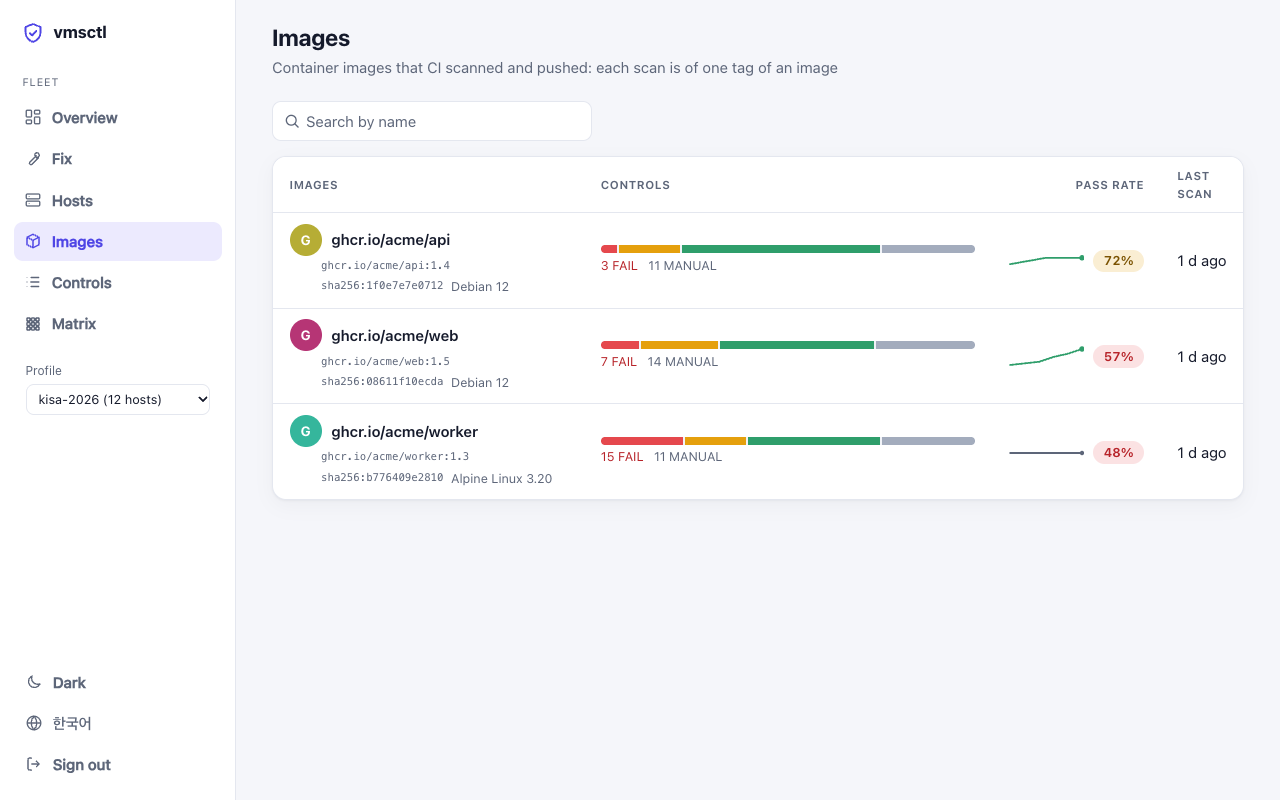
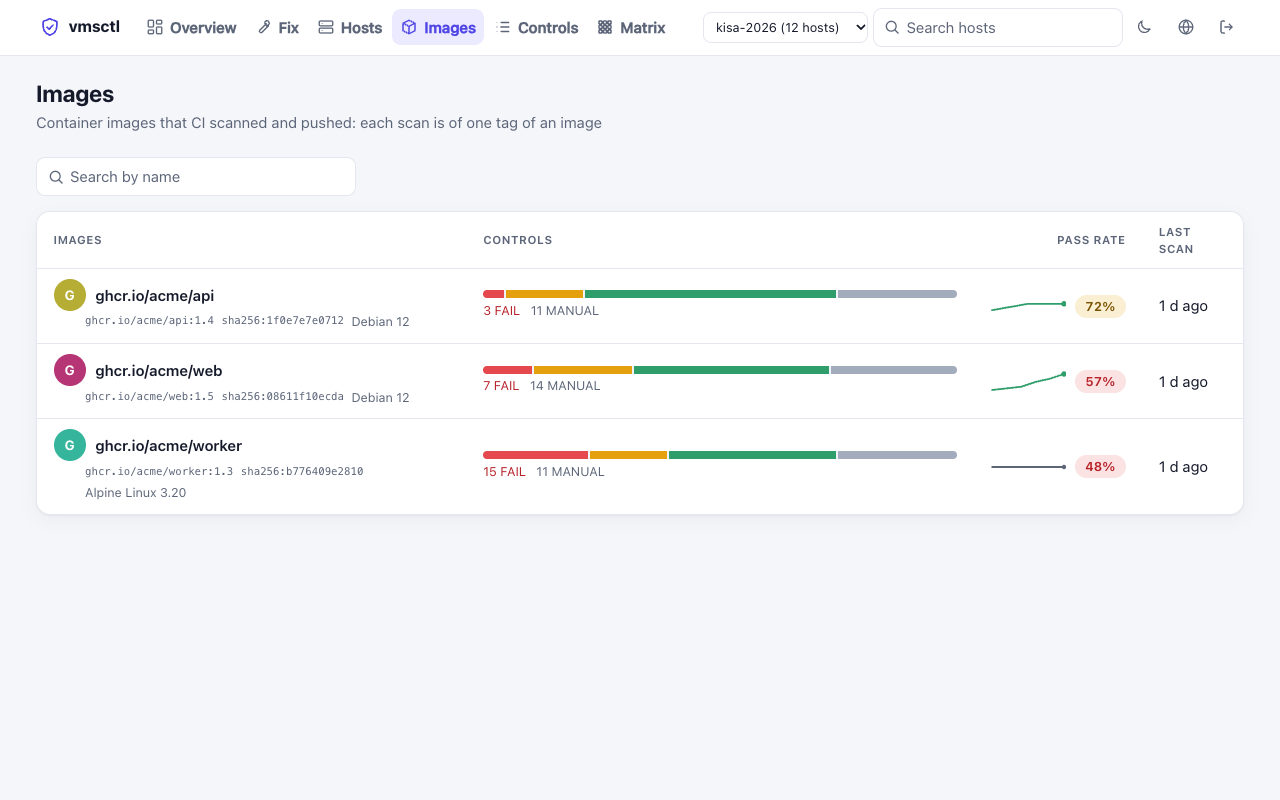
feat: dashboard: a top bar with the pages, the profile, a host search and the settings, instead of the sidebar

diff --git a/web/src/styles.css b/web/src/styles.css
@@ -58,19 +58,25 @@ ul, ol { margin: 0; }
 .icon { flex: none; }
 
 /* Layout */
-.app { display: grid; grid-template-columns: 236px minmax(0, 1fr); min-height: 100vh; }
-.sidebar { position: sticky; top: 0; height: 100vh; display: flex; flex-direction: column; gap: 1.25rem; padding: 1.1rem .9rem; background: var(--surface); border-right: 1px solid var(--border); }
-.brand { display: flex; align-items: center; gap: .55rem; font-weight: 750; font-size: 1.1rem; color: var(--text); padding: .25rem .5rem; letter-spacing: -0.01em; }
+.app { min-height: 100vh; }
+html { scroll-padding-top: 4.5rem; } /* what is brought into view stays clear of the sticky top bar */
+/* The top bar: the brand, the pages, and on the right the profile, a host search and the settings */
+.topbar { position: sticky; top: 0; z-index: 20; background: var(--surface); border-bottom: 1px solid var(--border); }
+.topbar-in { max-width: 1312px; margin: 0 auto; display: flex; align-items: center; gap: 1rem; padding: .5rem clamp(16px, 3vw, 36px); }
+.brand { display: flex; align-items: center; gap: .5rem; font-weight: 750; font-size: 1.05rem; color: var(--text); padding: .25rem .2rem; letter-spacing: -0.01em; flex: none; }
 .brand .icon { color: var(--accent); }
 .brand:hover { text-decoration: none; }
-.sidebar nav { display: grid; gap: .15rem; }
-.nav-section { font-size: .72rem; text-transform: uppercase; letter-spacing: .08em; color: var(--muted); padding: .4rem .6rem; }
-.sidebar nav a { display: flex; align-items: center; gap: .65rem; padding: .55rem .7rem; border-radius: var(--radius-sm); color: var(--muted); font-weight: 520; }
-.sidebar nav a:hover { background: var(--surface-2); color: var(--text); text-decoration: none; }
-.sidebar nav a[aria-current="page"] { background: var(--accent-soft); color: var(--accent); }
-.sidebar-foot { margin-top: auto; display: grid; gap: .1rem; }
-.sidebar-foot button { display: flex; align-items: center; gap: .65rem; text-align: left; width: 100%; }
-main { padding: 1.6rem clamp(16px, 3vw, 36px) 3rem; max-width: 1240px; width: 100%; min-width: 0; }
+.topnav { display: flex; gap: .1rem; min-width: 0; overflow-x: auto; scrollbar-width: none; } /* too narrow: it scrolls, nothing covers it */
+.topnav a { display: flex; align-items: center; gap: .4rem; padding: .45rem .55rem; border-radius: var(--radius-sm); color: var(--muted); font-weight: 560; white-space: nowrap; }
+.topnav a:hover { background: var(--surface-2); color: var(--text); text-decoration: none; }
+.topnav a[aria-current="page"] { background: var(--accent-soft); color: var(--accent); }
+.topbar-tools { margin-left: auto; display: flex; align-items: center; gap: .3rem; flex: none; }
+.topbar-tools .icon-only { padding: .45rem; }
+.topbar-tools .lang-switch { display: flex; align-items: center; gap: .35rem; white-space: nowrap; }
+.topsearch { width: 10rem; }
+@media (max-width: 1400px) { .topbar-tools .lang-switch span { display: none; } }
+@media (max-width: 1180px) { .topbar-tools .topsearch { display: none; } }
+main { padding: 1.6rem clamp(16px, 3vw, 36px) 3rem; max-width: 1312px; width: 100%; min-width: 0; margin: 0 auto; }
 .pagehead { display: flex; justify-content: space-between; align-items: flex-end; gap: 1rem; margin-bottom: 1.25rem; flex-wrap: wrap; }
 .pagehead p { margin-top: .25rem; }
 .crumb { margin-bottom: .75rem; }
@@ -262,17 +268,16 @@ table.matrix .cell:hover { outline: 2px solid var(--text); outline-offset: 0; }
 }
 @media (max-width: 760px) {
   /* a short page must not hand its spare height to the top bar: the rows keep their size and the page ends where it ends */
-  .app { grid-template-columns: minmax(0, 1fr); grid-template-rows: auto 1fr; }
   .hero, .hosthead { min-width: 0; }
   .gauge svg { max-width: 180px; }
   .legend { justify-content: flex-start; }
-  .sidebar { position: static; height: auto; flex-direction: row; flex-wrap: wrap; align-items: center; padding: .6rem .9rem; gap: .5rem; }
-  /* four equal tabs that always fit: icon over label, like a tab bar */
-  .sidebar nav { display: grid; grid-auto-flow: column; grid-auto-columns: 1fr; order: 3; width: 100%; gap: .25rem; }
-  .sidebar nav a { flex-direction: column; gap: .15rem; padding: .45rem .2rem; font-size: .76rem; text-align: center; }
-  .nav-section { display: none; }
-  .sidebar-foot { margin: 0 0 0 auto; display: flex; }
-  .sidebar-foot button span { display: none; }
+  /* two rows: the brand and the settings, then the pages as a tab bar (icon over label, equal widths) */
+  .topbar { position: static; }
+  html { scroll-padding-top: 0; }
+  .topbar-in { flex-wrap: wrap; gap: .5rem; padding: .5rem 16px; }
+  .topnav { order: 3; width: 100%; display: grid; grid-auto-flow: column; grid-auto-columns: 1fr; gap: .2rem; }
+  .topnav a { flex-direction: column; gap: .15rem; padding: .4rem .15rem; font-size: .74rem; justify-content: center; }
+  .topbar-tools .profile-select select { max-width: 7.5rem; }
   .login { grid-template-columns: 1fr; }
   .login-art { display: none; }
   .control-row { grid-template-columns: 16px 3rem 1fr 6.2rem; }
@@ -291,9 +296,8 @@ table.matrix .cell:hover { outline: 2px solid var(--text); outline-offset: 0; }
 }
 @media (prefers-reduced-motion: reduce) { * { animation: none !important; transition: none !important; } }
 
-.profile-select { display: grid; gap: 4px; padding: 0 12px 12px; }
-.profile-select label { font-size: 12px; color: var(--muted); }
-.profile-select select { width: 100%; padding: 6px 8px; border: 1px solid var(--border); border-radius: 8px; background: var(--surface); color: inherit; font: inherit; font-size: .85rem; text-overflow: ellipsis; }
+.profile-select { display: flex; }
+.profile-select select { max-width: 11rem; padding: 6px 8px; border: 1px solid var(--border); border-radius: 8px; background: var(--surface); color: inherit; font: inherit; font-size: .85rem; text-overflow: ellipsis; }
 
 .scannow { display: grid; gap: .35rem; }
 .scannow-main { display: flex; flex-wrap: wrap; align-items: center; gap: .75rem; }
@@ -411,7 +415,7 @@ html[lang="ko"] .evidence, html[lang="ko"] code, html[lang="ko"] .mono { word-br
 .standard .pill { justify-self: start; }
 /* The remediation page: the queue on the left, the chosen control on the right */
 .workbench { display: grid; grid-template-columns: minmax(260px, 340px) minmax(0, 1fr); gap: 1rem; align-items: start; }
-.queue { position: sticky; top: 1rem; max-height: calc(100vh - 2rem); display: flex; flex-direction: column; }
+.queue { position: sticky; top: 4.5rem; max-height: calc(100vh - 5.5rem); display: flex; flex-direction: column; }
 .queue-filters { display: grid; gap: .5rem; padding: .8rem; border-bottom: 1px solid var(--border); }
 .workbench-main .fixhosts-head { margin: 0; padding: .9rem 1.1rem .5rem; font-size: .95rem; }
 .queue-filters .search { width: 100%; }

diff --git a/web/src/App.tsx b/web/src/App.tsx
@@ -3,7 +3,7 @@ import { api, setUnauthorizedHandler } from "./lib/api";
 import { useAsync, useHash } from "./lib/hooks";
 import { ProfileProvider, useProfile } from "./lib/profile";
 import { useI18n } from "./lib/i18n";
-import { parseRoute } from "./lib/format";
+import { hostsAddress, parseHostsView, parseRoute } from "./lib/format";
 import { Login } from "./pages/Login";
 import { OverviewPage } from "./pages/Overview";
 import { HostsPage } from "./pages/Hosts";
@@ -12,7 +12,7 @@ import { MatrixPage } from "./pages/Matrix";
 import { ImagesPage } from "./pages/Images";
 import { ControlPage, ControlsPage } from "./pages/Controls";
 import { FixPage } from "./pages/Fix";
-import { IconBox, IconGlobe, IconGrid, IconList, IconLogout, IconMoon, IconOverview, IconServer, IconShield, IconSun, IconWrench } from "./components/icons";
+import { IconBox, IconGlobe, IconGrid, IconList, IconLogout, IconMoon, IconOverview, IconSearch, IconServer, IconShield, IconSun, IconWrench } from "./components/icons";
 
 type Auth = "checking" | "in" | "out" | "failed";
 
@@ -102,7 +102,7 @@ export function App() {
   );
 }
 
-/** The sidebar and the page, once the person is signed in and the profiles are known. */
+/** The top bar and the page, once the person is signed in and the profiles are known. */
 function Shell({ hash, dark, toggleTheme, logout }: { hash: string; dark: boolean; toggleTheme: () => void; logout: () => void }) {
   const { t, toggle } = useI18n();
   const { list, selected, select } = useProfile();
@@ -133,49 +133,62 @@ function Shell({ hash, dark, toggleTheme, logout }: { hash: string; dark: boolea
 
   return (
     <div className="app">
-      <aside className="sidebar">
-        <a className="brand" href="#/">
-          <IconShield size={24} />
-          <span>{t("app.name")}</span>
-        </a>
-        <nav aria-label={t("nav.section")}>
-          <span className="nav-section">{t("nav.section")}</span>
-          {nav.map(([key, href, label, icon]) => (
-            <a key={key} href={href} aria-current={current === key ? "page" : undefined}>
-              {icon}
-              <span>{label}</span>
-            </a>
-          ))}
-        </nav>
-        {list && list.profiles.length > 1 && (
-          <div className="profile-select">
-            <label htmlFor="profile">{t("profile.label")}</label>
-            <select id="profile" value={selected} onChange={(e) => select(e.target.value)}>
-              {list.profiles.map((p) => (
-                <option key={p.id} value={p.id}>
-                  {p.id} ({t("profile.hosts", { n: p.fleet?.hosts ?? p.hosts })})
-                </option>
-              ))}
-            </select>
-          </div>
-        )}
-        <div className="sidebar-foot">
-          <button className="ghost" onClick={toggleTheme} aria-label={dark ? t("theme.light") : t("theme.dark")} title={dark ? t("theme.light") : t("theme.dark")}>
-            {dark ? <IconSun /> : <IconMoon />}
-            <span>{dark ? t("theme.light") : t("theme.dark")}</span>
-          </button>
-          <button className="ghost" onClick={toggle} aria-label={t("lang.switch")} title={t("lang.switch")}>
-            <IconGlobe />
-            <span>{t("lang.switch")}</span>
-          </button>
-          {!DEMO && (
-            <button className="ghost" onClick={logout} aria-label={t("nav.logout")} title={t("nav.logout")}>
-              <IconLogout />
-              <span>{t("nav.logout")}</span>
+      <header className="topbar">
+        <div className="topbar-in">
+          <a className="brand" href="#/">
+            <IconShield size={22} />
+            <span>{t("app.name")}</span>
+          </a>
+          <nav className="topnav" aria-label={t("nav.section")}>
+            {nav.map(([key, href, label, icon]) => (
+              <a key={key} href={href} aria-current={current === key ? "page" : undefined}>
+                {icon}
+                <span>{label}</span>
+              </a>
+            ))}
+          </nav>
+          <div className="topbar-tools">
+            {list && list.profiles.length > 1 && (
+              <div className="profile-select">
+                <label htmlFor="profile" className="sr-only">
+                  {t("profile.label")}
+                </label>
+                <select id="profile" value={selected} onChange={(e) => select(e.target.value)} title={t("profile.label")}>
+                  {list.profiles.map((p) => (
+                    <option key={p.id} value={p.id}>
+                      {p.id} ({t("profile.hosts", { n: p.fleet?.hosts ?? p.hosts })})
+                    </option>
+                  ))}
+                </select>
+              </div>
+            )}
+            <form
+              className="topsearch search"
+              role="search"
+              onSubmit={(e) => {
+                e.preventDefault();
+                const q = String(new FormData(e.currentTarget).get("q") ?? "").trim();
+                location.hash = hostsAddress({ ...parseHostsView(""), q });
+              }}
+            >
+              <IconSearch />
+              <input type="search" name="q" placeholder={t("top.search")} aria-label={t("top.search")} />
+            </form>
+            <button className="ghost icon-only" onClick={toggleTheme} aria-label={dark ? t("theme.light") : t("theme.dark")} title={dark ? t("theme.light") : t("theme.dark")}>
+              {dark ? <IconSun /> : <IconMoon />}
             </button>
-          )}
+            <button className="ghost lang-switch" onClick={toggle} aria-label={t("lang.switch")} title={t("lang.switch")}>
+              <IconGlobe />
+              <span>{t("lang.switch")}</span>
+            </button>
+            {!DEMO && (
+              <button className="ghost icon-only" onClick={logout} aria-label={t("nav.logout")} title={t("nav.logout")}>
+                <IconLogout />
+              </button>
+            )}
+          </div>
         </div>
-      </aside>
+      </header>
       <main key={selected}>
         {DEMO && (
           <p className="demo-banner" role="note">

diff --git a/web/src/lib/i18n.tsx b/web/src/lib/i18n.tsx
@@ -6,6 +6,7 @@ const en = {
   "app.name": "vmsctl",
   "nav.overview": "Overview",
   "nav.fix": "Fix",
+  "top.search": "Search hosts",
   "fix.title": "Fix",
   "fix.subtitle": "The failing controls in the order to fix them, with how to fix each and the hosts to fix it on.",
   "fix.queue": "Controls to fix",
@@ -180,7 +181,7 @@ const en = {
   "profile.hosts": "{n} hosts",
   "profile.other": "{n} hosts scanned with another profile are not counted here. Pick that profile to see them.",
   "profile.otherHost": "another profile",
-  "profile.hostOther": "The latest scan of this host is of {profiles}. Choose that profile in the sidebar to see its controls.",
+  "profile.hostOther": "The latest scan of this host is of {profiles}. Choose that profile at the top of the page to see its controls.",
   "hosts.sortBy": "Sort",
   "hosts.more": "Show more",
   "hosts.showing": "Showing {n} of {total}",
@@ -222,6 +223,7 @@ const ko: Record<Key, string> = {
   "app.name": "vmsctl",
   "nav.overview": "개요",
   "nav.fix": "조치",
+  "top.search": "호스트 검색",
   "fix.title": "조치",
   "fix.subtitle": "실패한 점검 항목을 고칠 순서대로 놓고, 항목마다 고치는 방법과 고칠 호스트를 함께 보여 줍니다.",
   "fix.queue": "고칠 점검 항목",
@@ -396,7 +398,7 @@ const ko: Record<Key, string> = {
   "profile.hosts": "호스트 {n}대",
   "profile.other": "다른 프로파일로 스캔한 호스트 {n}대는 여기에 집계하지 않습니다. 그 프로파일을 고르면 볼 수 있습니다.",
   "profile.otherHost": "다른 프로파일",
-  "profile.hostOther": "이 호스트의 최신 스캔은 {profiles} 프로파일 기준입니다. 사이드바에서 해당 프로파일을 고르면 점검 항목을 볼 수 있습니다.",
+  "profile.hostOther": "이 호스트의 최신 스캔은 {profiles} 프로파일 기준입니다. 화면 위쪽에서 해당 프로파일을 고르면 점검 항목을 볼 수 있습니다.",
   "hosts.sortBy": "정렬",
   "hosts.more": "더 보기",
   "hosts.showing": "{total}대 중 {n}대 표시",

diff --git a/docs/fleet.md b/docs/fleet.md
@@ -251,7 +251,7 @@ your proxy: check it against its documentation. Things to know:
 Hosts may scan with different profiles (`--profile`, `essentials`, a policy pack), so every number of the dashboard is of
 **one profile**: the overview, the host list, the matrix and the control list take `?profile=ID` and, without it, use the
 profile that most hosts scanned with (**a script that read these calls without `profile` before v0.19 now reads one profile: pass `?profile=all` for every profile added up, as before**). A host whose latest scan has none of its controls is not counted in the numbers (a silent host is still counted as stale, whatever it scanned with): the dashboard
-says how many such hosts there are and marks them in the list. In the dashboard a selector in the sidebar picks the
+says how many such hosts there are and marks them in the list. In the dashboard a selector in the top bar picks the
 profile (and remembers it) when there is more than one.
 
 A read token (`--scope api`) lets a script or CI ask the server what it knows:

diff --git a/docs/fleet.ko.md b/docs/fleet.ko.md
@@ -288,7 +288,7 @@ server {
 
 최신 스캔에 그 프로파일의 점검 항목이 하나도 없는 호스트는 숫자에 넣지 않습니다(보고를 멈춘 호스트는 어떤
 프로파일로 스캔했든 보고가 끊긴(stale) 호스트로 셉니다). 대시보드는 이런 호스트가 몇 대인지 알려 주고 목록에 표시합니다.
-프로파일이 둘 이상이면 사이드바의 선택기로 프로파일을 고르고, 고른 값은 기억합니다.
+프로파일이 둘 이상이면 화면 위쪽의 선택기로 프로파일을 고르고, 고른 값은 기억합니다.
 
 조회 토큰(`--scope api`)이 있으면 스크립트나 CI에서도 서버가 아는 것을 물어볼 수 있습니다.
 
